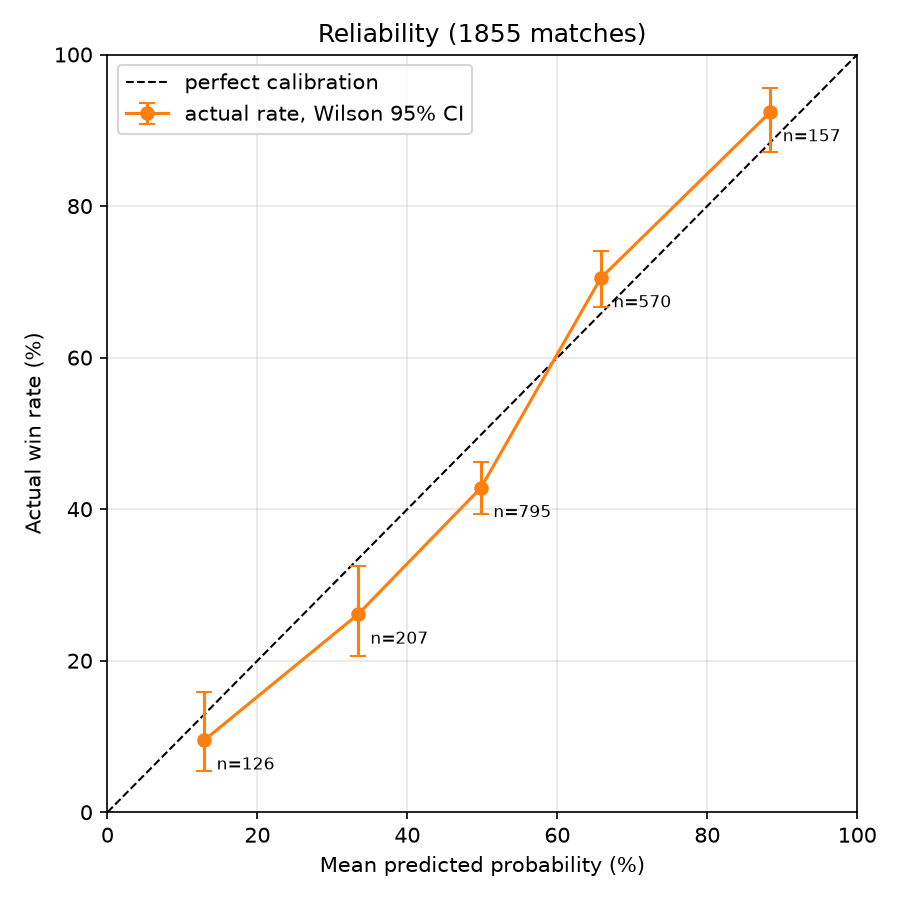
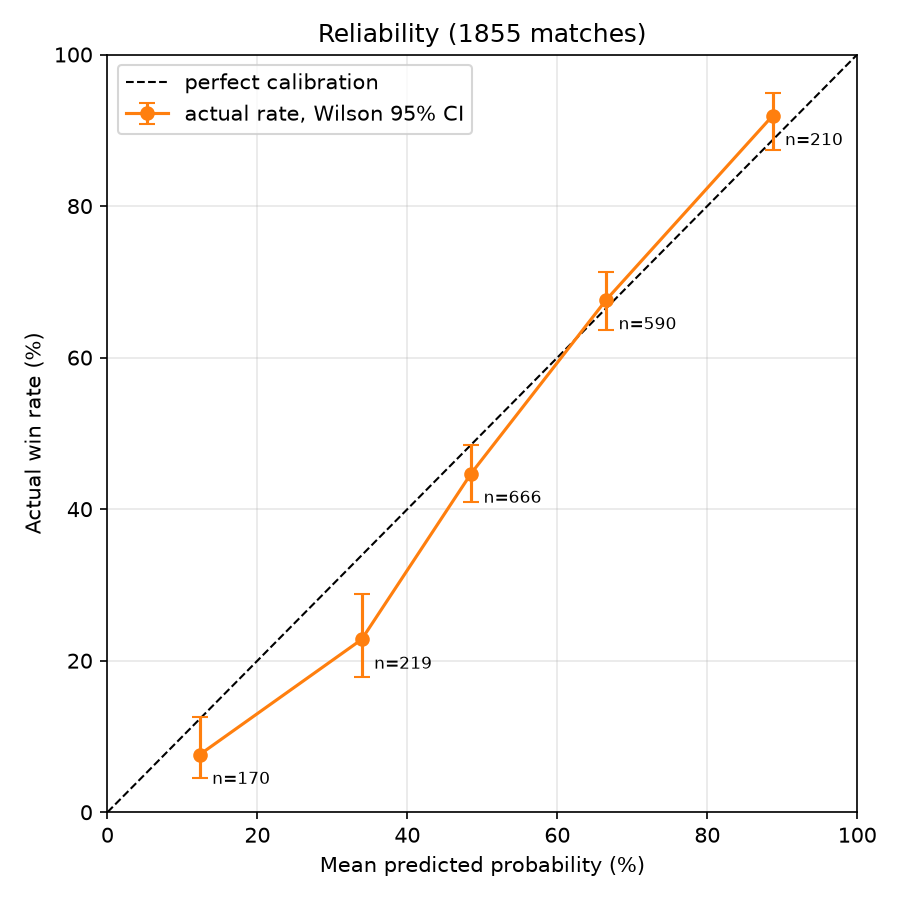
Handling Database lock error

diff --git a/check_bin_gap.py b/check_bin_gap.py
@@ -1,0 +1,55 @@
+"""Like-for-like check of the raw 20-40% bin gap, plus the in-sample ECE of the Platt fit.
+
+Run from the folder that holds backtest.py (or backtesting.py):
+    python check_bin_gap.py --db backtest_deepseek.db
+Add --model <name> if the DB holds more than one model.
+
+It follows the SAME matches through calibration: take the matches whose RAW probability is in a bin, apply the
+calibrator fitted on all matches, and compare their mean calibrated probability with their actual win rate.
+(The doc's calibrated-bin table re-sorts matches by the calibrated probability, so its bins hold different matches.)
+"""
+import argparse
+
+import numpy as np
+
+try:
+    import backtest as bt
+except ImportError:
+    import backtesting as bt
+
+ap = argparse.ArgumentParser()
+ap.add_argument("--db", default="backtest_deepseek.db")
+ap.add_argument("--model", default=None)
+args = ap.parse_args()
+
+df = bt.load_scored(args.db, args.model)
+df = df[df["actual_outcome"].isin(["YES", "NO"])]          # VOID matches are not scored
+p = df["probability"].to_numpy(float)
+y = df["actual_numeric"].to_numpy(float)
+print(f"{len(p)} scored matches\n")
+
+fits = {m: bt._fit_calibrator(m, p, y) for m in ("platt", "isotonic")}
+cal = {m: bt._apply_calibrator(m, fits[m], p) for m in fits}
+
+c = fits["platt"]
+print(f"Platt fit on all matches: slope {c.coef_[0][0]:.3f}, intercept {c.intercept_[0]:.3f} "
+      f"(sklearn's LogisticRegression default is lightly regularised)")
+print(f"ECE, raw:                       {bt._ece(p, y) * 100:.2f} pts")
+for m in fits:
+    print(f"ECE, {m:8s} fitted on all, scored on all (in-sample): {bt._ece(cal[m], y) * 100:.2f} pts")
+
+print("\nSAME matches followed through calibration (bins by RAW probability; edges are (0.2,0.4] etc, as in the doc):")
+print(f"{'raw bin':9s} {'n':>5s} {'mean raw':>9s} {'actual':>8s} {'raw gap':>8s} | "
+      f"{'Platt mean':>10s} {'gap':>6s} | {'isotonic mean':>13s} {'gap':>6s}")
+idx = np.digitize(p, bt.EDGES, right=True)
+for k, label in enumerate(bt.BIN_LABELS):
+    m = idx == k
+    if not m.any():
+        continue
+    act = y[m].mean() * 100
+    row = f"{label:9s} {m.sum():5d} {p[m].mean() * 100:9.1f} {act:8.1f} {act - p[m].mean() * 100:+8.1f} | "
+    for name in ("platt", "isotonic"):
+        mc = cal[name][m].mean() * 100
+        row += f"{mc:10.1f} {act - mc:+6.1f} | " if name == "platt" else f"{mc:13.1f} {act - mc:+6.1f}"
+    print(row)
+print("\ngap = actual win rate minus mean prediction, in points. The 20-40% row is the one in question.")

diff --git a/cricket_engine.py b/cricket_engine.py
@@ -216,9 +216,9 @@ def _spend_call() -> bool:
 
 
 def _rapid_headers() -> dict:
-    key = os.environ.get("RAPID_API_KEY")
+    key = os.environ.get("RAPIDAPI_KEY")
     if not key:
-        raise RuntimeError("Set the RAPID_API_KEY environment variable (RapidAPI -> Cricbuzz Cricket).")
+        raise RuntimeError("Set the RAPIDAPI_KEY environment variable (RapidAPI -> Cricbuzz Cricket).")
     return {"x-rapidapi-key": key, "x-rapidapi-host": RAPIDAPI_HOST}
 
 
@@ -660,6 +660,7 @@ def check_and_resolve(smart=False):
                     WHERE id = ?
                 ''', (outcome, is_correct, brier_score, pred_id))
 
+                conn.commit()   # release the write lock now: the next fetch_scorecard() counts its API call through a second connection
                 print(f"✅ RESOLVED #{pred_id}: {question} → {outcome} | Brier: {brier_score:.4f}")
 
             elif outcome == 'UNRESOLVED':
@@ -669,6 +670,7 @@ def check_and_resolve(smart=False):
                     WHERE id = ?
                 ''', (pred_id,))
 
+                conn.commit()   # same reason as above
                 print(f"⚠ VOIDED #{pred_id}: Match abandoned or no result.")
 
             else:

diff --git a/backtesting.py b/backtesting.py
@@ -735,7 +735,7 @@ def run_calibration_experiment(df: pd.DataFrame, repeats: int = 40, folds: int =
     oof = {m: np.empty((repeats, n)) for m in methods}          # out-of-fold prediction of every match, in every repeat
     for r in range(repeats):
         skf = StratifiedKFold(n_splits=folds, shuffle=True, random_state=int(rng.integers(2**31 - 1)))
-        for tr, te in skf.split(p, y):
+        for tr, te in skf.split(p, y): # tr and te are indices of the training and test splits
             for m in methods:
                 oof[m][r, te] = _apply_calibrator(m, _fit_calibrator(m, p[tr], y[tr]), p[te])
 
